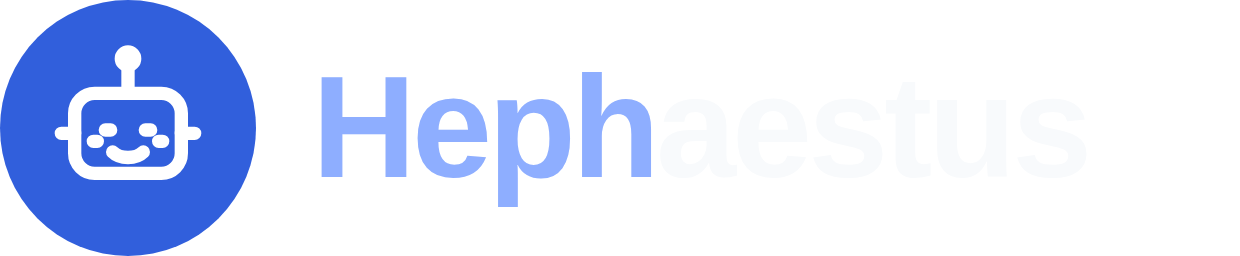
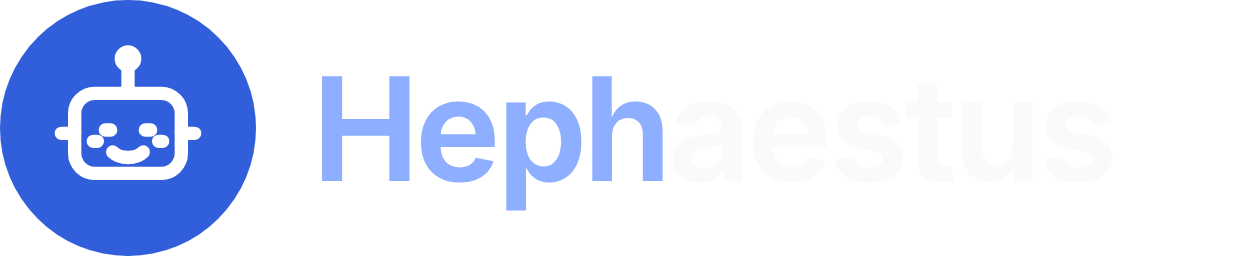
refactor(webapp): unify brand asset exports

Changed region(s): [[0.2758, 0.2812, 0.5516, 0.8438], [0.2452, 0.6875, 0.2758, 0.7188], [0.2452, 0.2812, 0.2758, 0.3125]]

diff --git a/webapp/scripts/export-brand-assets.ts b/webapp/scripts/export-brand-assets.ts
@@ -1,26 +1,79 @@
-import { copyFile, mkdir, readFile } from "node:fs/promises";
+import { spawn } from "node:child_process";
+import { copyFile, mkdir, readFile, rm, writeFile } from "node:fs/promises";
 import { resolve } from "node:path";
 
-import { chromium } from "playwright";
+import { type Browser, chromium } from "playwright";
 
 const webappDirectory = resolve(import.meta.dirname, "..");
 const sourceDirectory = resolve(webappDirectory, "brand");
 const publicDirectory = resolve(webappDirectory, "public");
 const docsImageDirectory = resolve(webappDirectory, "../docs/static/img");
 const docsBrandDirectory = resolve(docsImageDirectory, "brand");
+const readmeImageDirectory = resolve(webappDirectory, "../docs/images/readme");
+const proxyComposePath = resolve(webappDirectory, "../docker/compose.proxy.yaml");
 const markSvg = await readFile(resolve(sourceDirectory, "hephaestus-mark.svg"), "utf8");
+const interFont = await readFile(
+	new URL(import.meta.resolve("@fontsource-variable/inter/files/inter-latin-wght-normal.woff2")),
+);
+const FONT_FACE = `@font-face{font-family:Inter;font-style:normal;font-weight:100 900;src:url(data:font/woff2;base64,${interFont.toString("base64")}) format('woff2')}`;
 const SIGNAL_BLUE = "#315FDC";
 const DARK_ACCENT = "#8EAEFF";
 const DARK_SURFACE = "#111318";
+const storybookPort = 6106;
+const storybookUrl = `http://127.0.0.1:${storybookPort}`;
 
 await mkdir(resolve(publicDirectory, "brand"), { recursive: true });
+await rm(docsBrandDirectory, { recursive: true, force: true });
 await mkdir(docsBrandDirectory, { recursive: true });
+await rm(readmeImageDirectory, { recursive: true, force: true });
+await mkdir(readmeImageDirectory, { recursive: true });
 
 for (const [source, targets] of [
 	["hephaestus-mark.svg", [resolve(publicDirectory, "brand/hephaestus-mark.svg")]],
 ] as const) {
 	for (const target of targets) await copyFile(resolve(sourceDirectory, source), target);
 }
+
+const proxyCompose = await readFile(proxyComposePath, "utf8");
+const proxyMark = markSvg
+	.replace(
+		'<svg xmlns="http://www.w3.org/2000/svg" viewBox="0 0 128 128" role="img" aria-labelledby="title"><title id="title">Hephaestus</title>',
+		'<svg class="brand" xmlns="http://www.w3.org/2000/svg" viewBox="0 0 128 128" role="img" aria-label="Hephaestus">',
+	)
+	.trim();
+const nextProxyCompose = proxyCompose.replace(
+	/<svg class="brand" xmlns="http:\/\/www\.w3\.org\/2000\/svg".*<\/svg>/,
+	proxyMark,
+);
+if (nextProxyCompose === proxyCompose && !proxyCompose.includes(proxyMark)) {
+	throw new Error("The maintenance-page brand mark could not be updated.");
+}
+await writeFile(proxyComposePath, nextProxyCompose);
+
+interface ReadmeCapture {
+	name: string;
+	storyId: string;
+	selector: string;
+	viewportWidth: number;
+	expectedWidth: number;
+}
+
+const readmeCaptures: ReadmeCapture[] = [
+	{
+		name: "landing-hero",
+		storyId: "components-info-landing-landingherosection--readme-export",
+		selector: '[data-readme-export="landing-hero"]',
+		viewportWidth: 1440,
+		expectedWidth: 1280,
+	},
+	{
+		name: "feedback-scene",
+		storyId: "components-info-landing-landingherosection--scene-export",
+		selector: '[data-readme-export="feedback-scene"]',
+		viewportWidth: 1024,
+		expectedWidth: 896,
+	},
+];
 
 const browser = await chromium.launch();
 try {
@@ -44,14 +97,16 @@ try {
 	await captureMark(resolve(publicDirectory, "icon-192.png"), 192, true);
 	await captureMark(resolve(publicDirectory, "icon-512.png"), 512, true);
 	await captureMark(resolve(publicDirectory, "icon-maskable-512.png"), 512, true, true);
-	await captureMark(resolve(docsBrandDirectory, "github-app-icon-1024.png"), 1024, true);
+	await captureMark(resolve(docsBrandDirectory, "slack-app-icon-512.png"), 512, true);
+	await captureMark(resolve(docsBrandDirectory, "external-app-icon-1024.png"), 1024, true);
 	await captureMark(resolve(docsImageDirectory, "favicon.png"), 64);
 
 	const captureLockup = async (path: string, dark: boolean): Promise<void> => {
 		await page.setViewportSize({ width: 1240, height: 256 });
 		await page.setContent(
-			`<style>html,body{margin:0;width:100%;height:100%;font-family:-apple-system,BlinkMacSystemFont,'Segoe UI',sans-serif;background:transparent;color:${dark ? "#F8FAFC" : "#17191F"}}main{height:100%;display:flex;align-items:center;gap:56px}.mark{width:256px;height:256px}.name{font-size:144px;font-weight:650;letter-spacing:-4px}.heph{color:${dark ? DARK_ACCENT : SIGNAL_BLUE}}</style><main><div class="mark">${markSvg}</div><div class="name"><span class="heph">Heph</span>aestus</div></main>`,
+			`<style>${FONT_FACE}html,body{margin:0;width:100%;height:100%;font-family:Inter,sans-serif;background:transparent;color:${dark ? "#F8FAFC" : "#17191F"}}main{height:100%;display:flex;align-items:center;gap:56px}.mark{width:256px;height:256px}.name{font-size:144px;font-weight:650;letter-spacing:-4px}.heph{color:${dark ? DARK_ACCENT : SIGNAL_BLUE}}</style><main><div class="mark">${markSvg}</div><div class="name"><span class="heph">Heph</span>aestus</div></main>`,
 		);
+		await page.evaluate(() => document.fonts.ready);
 		await page.screenshot({ path, omitBackground: true });
 	};
 
@@ -60,11 +115,97 @@ try {
 
 	await page.setViewportSize({ width: 1200, height: 630 });
 	await page.setContent(
-		`<style>html,body{margin:0;width:100%;height:100%;font-family:-apple-system,BlinkMacSystemFont,'Segoe UI',sans-serif;background:${DARK_SURFACE};color:#f8fafc}.card{height:100%;display:flex;align-items:center;padding:96px;gap:56px}.mark{width:230px;height:230px}.name{font-size:86px;font-weight:700;letter-spacing:-3px}.heph{color:${DARK_ACCENT}}.tagline{margin-top:22px;font-size:34px;color:#b8bec9;max-width:650px;line-height:1.25}</style><main class="card"><div class="mark">${markSvg}</div><div><div class="name"><span class="heph">Heph</span>aestus</div><div class="tagline">Learn from the work you're already doing</div></div></main>`,
+		`<style>${FONT_FACE}html,body{margin:0;width:100%;height:100%;font-family:Inter,sans-serif;background:${DARK_SURFACE};color:#f8fafc}.card{height:100%;display:flex;align-items:center;padding:96px;gap:56px}.mark{width:230px;height:230px}.name{font-size:86px;font-weight:700;letter-spacing:-3px}.heph{color:${DARK_ACCENT}}.tagline{margin-top:22px;font-size:34px;color:#b8bec9;max-width:650px;line-height:1.25}</style><main class="card"><div class="mark">${markSvg}</div><div><div class="name"><span class="heph">Heph</span>aestus</div><div class="tagline">Learn from the work you're already doing</div></div></main>`,
 	);
+	await page.evaluate(() => document.fonts.ready);
 	const socialCard = resolve(docsImageDirectory, "hephaestus-social-card.png");
 	await page.screenshot({ path: socialCard });
 	await copyFile(socialCard, resolve(publicDirectory, "hephaestus-social-card.png"));
+
+	await page.setViewportSize({ width: 1280, height: 640 });
+	await page.setContent(
+		`<style>${FONT_FACE}html,body{margin:0;width:100%;height:100%;font-family:Inter,sans-serif;background:${DARK_SURFACE};color:#f8fafc}.card{height:100%;display:flex;align-items:center;padding:96px 112px;gap:56px}.mark{width:230px;height:230px}.name{font-size:86px;font-weight:700;letter-spacing:-3px}.heph{color:${DARK_ACCENT}}.tagline{margin-top:22px;font-size:34px;color:#b8bec9;max-width:650px;line-height:1.25}</style><main class="card"><div class="mark">${markSvg}</div><div><div class="name"><span class="heph">Heph</span>aestus</div><div class="tagline">Learn from the work you're already doing</div></div></main>`,
+	);
+	await page.evaluate(() => document.fonts.ready);
+	await page.screenshot({
+		path: resolve(docsBrandDirectory, "github-repository-social-preview-1280x640.png"),
+	});
+
+	await exportReadmeImages(browser);
 } finally {
 	await browser.close();
+}
+
+async function waitForStorybook(storyId: string): Promise<void> {
+	for (let attempt = 0; attempt < 120; attempt += 1) {
+		const response = await fetch(`${storybookUrl}/index.json`).catch(() => undefined);
+		if (response?.ok) {
+			const index: unknown = await response.json();
+			if (
+				!index ||
+				typeof index !== "object" ||
+				!("entries" in index) ||
+				!index.entries ||
+				typeof index.entries !== "object" ||
+				!(storyId in index.entries)
+			) {
+				throw new Error(`Story ${storyId} is not in the Storybook index. Was it renamed?`);
+			}
+			return;
+		}
+		await new Promise((resolveDelay) => {
+			setTimeout(resolveDelay, 500);
+		});
+	}
+	throw new Error("Storybook did not start within 60 seconds.");
+}
+
+async function exportReadmeImages(activeBrowser: Browser): Promise<void> {
+	const storybook = spawn(
+		"pnpm",
+		["run", "storybook:dev", "--port", String(storybookPort), "--ci", "--host", "127.0.0.1"],
+		{ cwd: webappDirectory, stdio: "ignore" },
+	);
+
+	try {
+		for (const capture of readmeCaptures) await waitForStorybook(capture.storyId);
+		for (const capture of readmeCaptures) {
+			for (const theme of ["light", "dark"] as const) {
+				const page = await activeBrowser.newPage({
+					viewport: { width: capture.viewportWidth, height: 800 },
+					deviceScaleFactor: 2,
+					colorScheme: theme,
+					reducedMotion: "reduce",
+				});
+				try {
+					const globals = encodeURIComponent(`theme:${theme}`);
+					await page.goto(
+						`${storybookUrl}/iframe.html?id=${capture.storyId}&viewMode=story&globals=${globals}`,
+					);
+					await page.waitForLoadState("networkidle");
+					await page.evaluate(() => document.fonts.ready);
+					await page.addStyleTag({
+						content:
+							"*,*::before,*::after{animation:none!important;transition:none!important;caret-color:transparent!important}" +
+							"[data-readme-actions]{display:none!important}",
+					});
+					const surface = page.locator(capture.selector);
+					await surface.waitFor({ state: "visible" });
+					const bounds = await surface.boundingBox();
+					if (!bounds || Math.round(bounds.width) !== capture.expectedWidth) {
+						throw new Error(
+							`${capture.name} export width was ${bounds?.width ?? "missing"}px; expected ${capture.expectedWidth}px.`,
+						);
+					}
+					await surface.screenshot({
+						path: resolve(readmeImageDirectory, `${capture.name}-${theme}.png`),
+					});
+				} finally {
+					await page.close();
+				}
+			}
+		}
+	} finally {
+		storybook.kill("SIGTERM");
+	}
 }

diff --git a/webapp/src/components/brand/HephaestusLogo.stories.tsx b/webapp/src/components/brand/HephaestusLogo.stories.tsx
@@ -11,10 +11,6 @@ const meta = {
 export default meta;
 type Story = StoryObj<typeof meta>;
 
-export const Lockup: Story = {
-	render: () => <HephaestusLogo markClassName="size-12" wordmarkClassName="text-3xl" />,
-};
-
 export const LightAndDark: Story = {
 	render: () => (
 		<div className="grid overflow-hidden rounded-2xl border sm:grid-cols-2">
@@ -24,6 +20,25 @@ export const LightAndDark: Story = {
 			<div className="dark flex min-h-48 items-center bg-[#111318] p-10 text-white">
 				<HephaestusLogo markClassName="size-12" wordmarkClassName="text-3xl" />
 			</div>
+		</div>
+	),
+};
+
+export const PlatformFit: Story = {
+	render: () => (
+		<div className="flex flex-wrap items-end gap-8">
+			{[
+				{ label: "Slack mobile · 36px", size: 36, shape: "rounded-lg" },
+				{ label: "GitHub profile · circle", size: 96, shape: "rounded-full" },
+				{ label: "App icon · squircle", size: 96, shape: "rounded-[22%]" },
+			].map(({ label, size, shape }) => (
+				<div key={label} className="text-center">
+					<div className={`mx-auto overflow-hidden ${shape}`} style={{ width: size, height: size }}>
+						<HephMark className="size-full" />
+					</div>
+					<p className="mt-3 text-xs text-muted-foreground">{label}</p>
+				</div>
+			))}
 		</div>
 	),
 };

diff --git a/webapp/index.html b/webapp/index.html
@@ -22,6 +22,7 @@
     />
     <meta property="og:type" content="website" />
     <meta property="og:image" content="/hephaestus-social-card.png" />
+	<meta property="og:image:type" content="image/png" />
     <meta property="og:image:alt" content="Hephaestus — Learn from the work you're already doing" />
     <meta property="og:image:width" content="1200" />
     <meta property="og:image:height" content="630" />
@@ -32,6 +33,7 @@
       content="Hephaestus gives developers practice feedback on software project work, plus an AI mentor for talking through feedback and next steps."
     />
     <meta name="twitter:image" content="/hephaestus-social-card.png" />
+	<meta name="twitter:image:alt" content="Hephaestus — Learn from the work you're already doing" />
     <link rel="apple-touch-icon" href="/apple-touch-icon.png" sizes="180x180" />
     <!-- Runtime environment config - MUST load before app bundle to set window.__ENV__ -->
     <!-- Path is rewritten to content-hashed version at container startup -->
